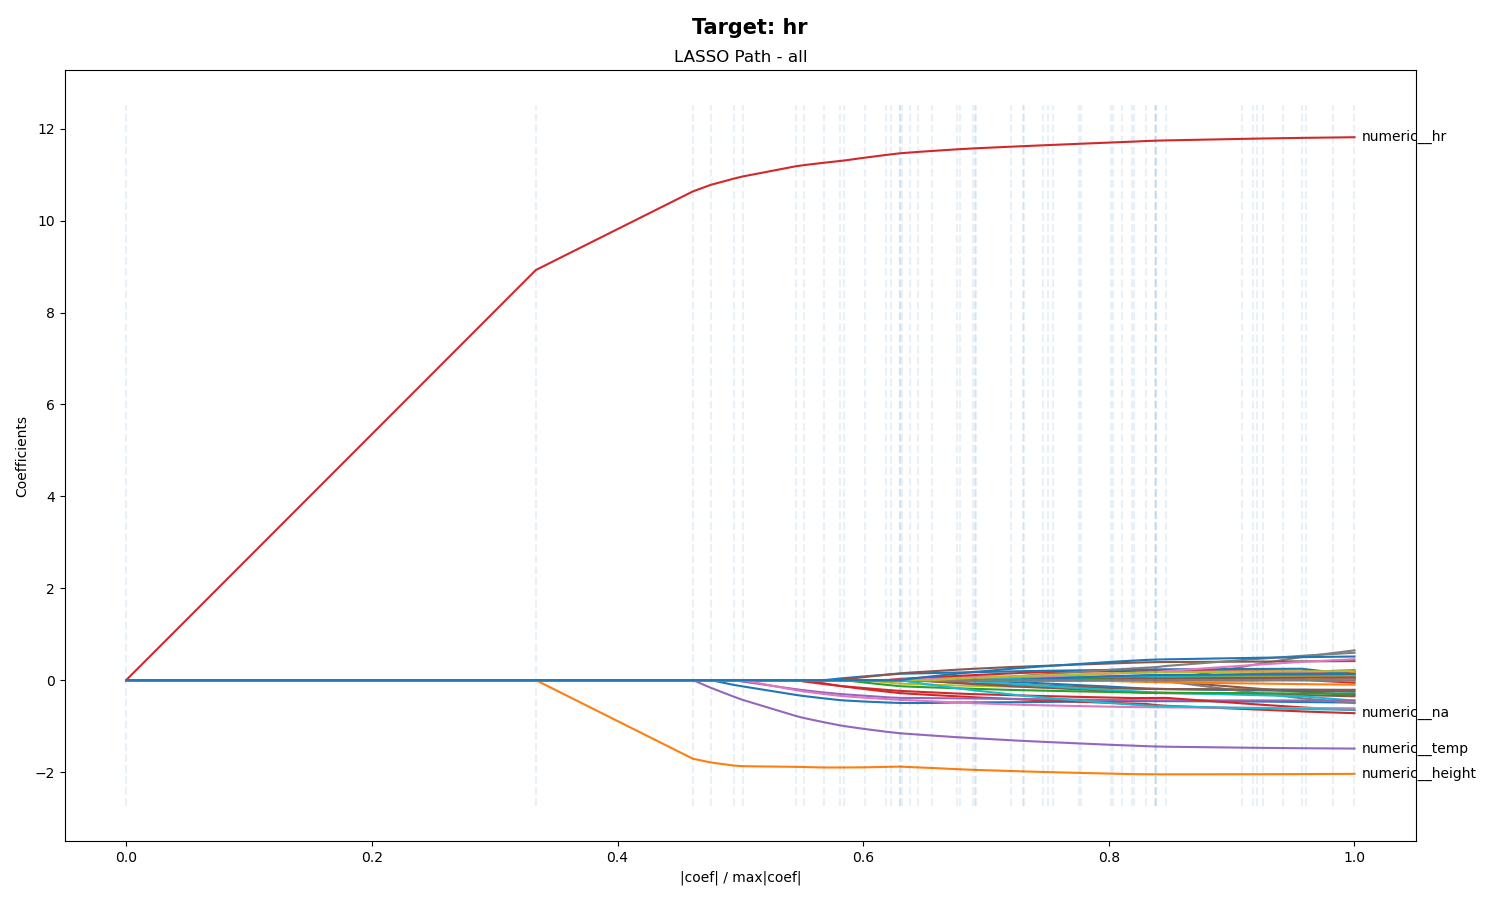
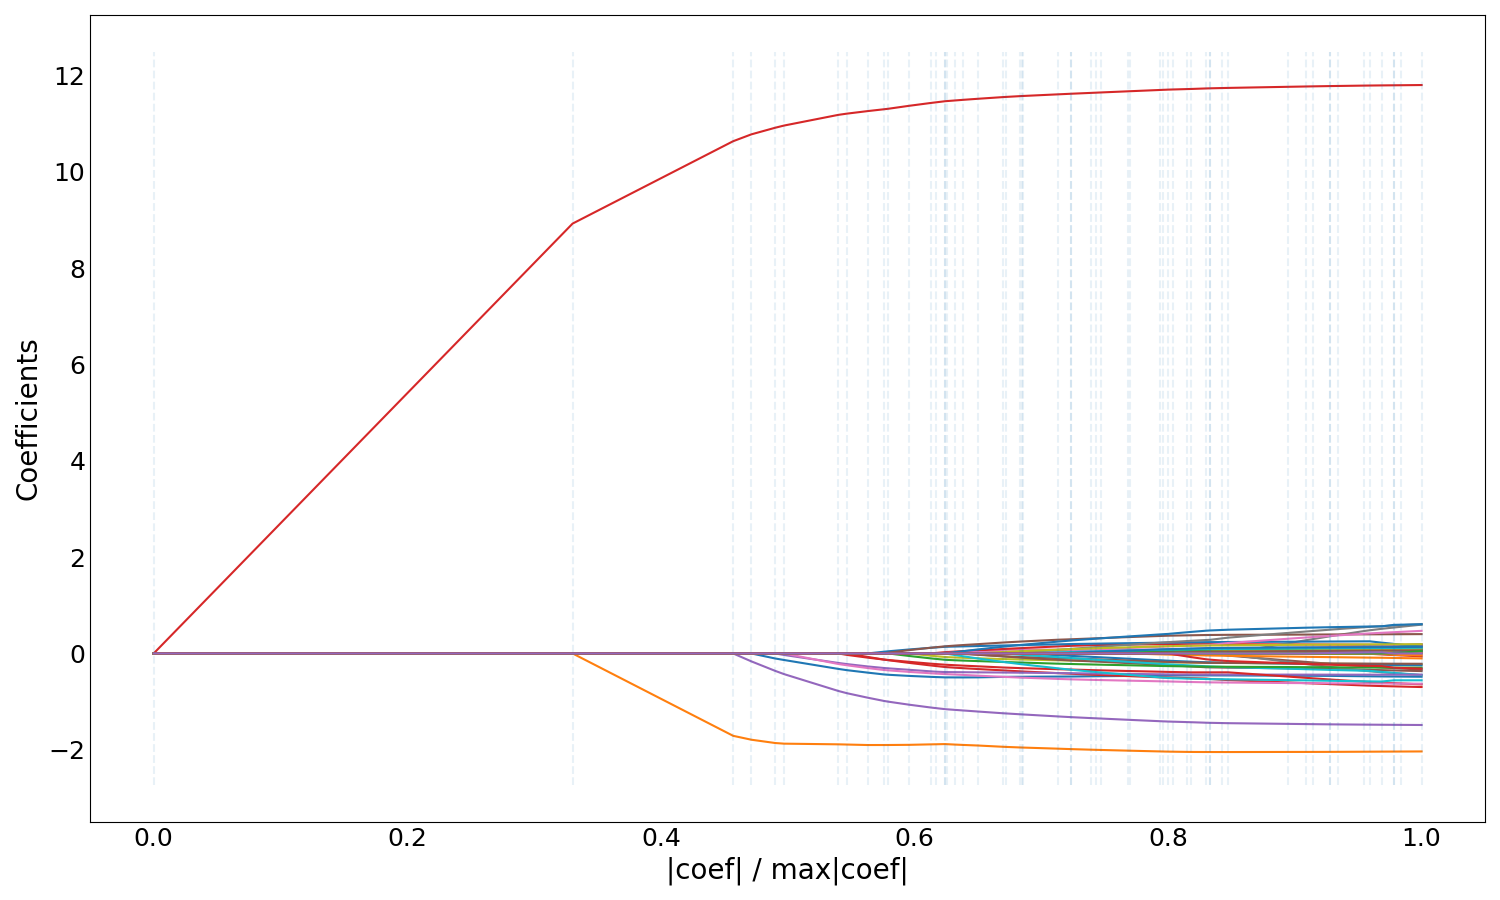
changes

diff --git a/Feature Selection/Lasso_profiles.py b/Feature Selection/Lasso_profiles.py
@@ -22,7 +22,7 @@ from preprocessing import make_feature_preprocessing
 from constants import CATEGORICAL_COLUMNS
 from icu_experiments.load_data import load_data_for_prediction
 
-outcome = 'map'
+outcome = 'hr'
 method = 'lasso'
 
 data = load_data_for_prediction(outcome=outcome)
@@ -36,9 +36,8 @@ Preprocessor = ColumnTransformer(
 fig, axs = plt.subplots(2,2, figsize=(15,9))
 for i, source in enumerate(['eicu', 'mimic', 'miiv', 'hirid', 'all']): 
     if source == 'all': 
-        fig.suptitle(f"Target: {outcome}", fontweight='bold', fontsize=15)
         plt.tight_layout()  # Adjust the layout
-        plt.savefig(f"images/Lasso/{source}_lasso_path_incl_sex")
+        plt.savefig(f"images/lasso profiles/{outcome}/Individual_Lasso_coef_path_{outcome}.png")
         plt.show()
         plt.close()
         fig, ax = plt.subplots(figsize=(15,9))
@@ -62,62 +61,26 @@ for i, source in enumerate(['eicu', 'mimic', 'miiv', 'hirid', 'all']):
     ax.plot(xx, coefs.T)
     ymin, ymax = ax.get_ylim()
     ax.vlines(xx, ymin, ymax, linestyle="dashed", alpha=0.1)
-    ax.set_xlabel("|coef| / max|coef|", fontsize=15)
-    ax.set_ylabel("Coefficients", fontsize=15)
-    ax.set_title(source, fontsize=16)
-    ax.tick_params(axis='y', labelsize=13, size=0) 
-    ax.tick_params(axis='x', labelsize=13, size=0) 
+    if source != 'all':
+        ax.set_title(source, fontsize=16)
+    if source == 'mimic':
+        ax.set_yticks(ticks=[-4, -2, 0, 2, 4, 6, 8, 10, 12, 14])
+    if source == 'all':
+        ax.set_xlabel("|coef| / max|coef|", fontsize=20)
+        ax.set_ylabel("Coefficients", fontsize=20)
+        ax.tick_params(axis='y', labelsize=18, size=0) 
+        ax.tick_params(axis='x', labelsize=18, size=0) 
+    else: 
+        ax.set_xlabel("|coef| / max|coef|", fontsize=15)
+        ax.set_ylabel("Coefficients", fontsize=15)
+        ax.tick_params(axis='y', labelsize=13, size=0) 
+        ax.tick_params(axis='x', labelsize=13, size=0) 
     ax.axis("tight")
-    
-    # Identify the indices of the four largest coefficients
-    if source == 'eicu':    
-        feature_indices = np.argsort(np.abs(coefs[:, -1]))[-4:]
-    elif source == 'hirid':
-        feature_indices = np.argsort(np.abs(coefs[:, -1]))[-4:]
-    else:
-        feature_indices = np.argsort(np.abs(coefs[:, -1]))[-4:]
 
-    print(f'Four most important features on {source}: {[list(_Xtrain.columns)[i] for i in np.argsort(np.abs(coefs[:, -1]))[-6:]]}')
-
-    feature_names = [list(_Xtrain.columns)[i] for i in feature_indices]
+    print(f'Five most important features on {source}: {[list(_Xtrain.columns)[i] for i in np.argsort(np.abs(coefs[:, -1]))[-6:]]}')
+    print()
 
     xmax = max(xx)
-    
-    # Add feature names to plot
-    for i, feature_index in enumerate(feature_indices):
-        y_pos = coefs[feature_index, -1]
-        if source == 'hirid':
-            if feature_names[i] == "categorical__sex_Male":
-                ax.annotate(feature_names[i], xy=(xmax, y_pos), xytext=(5, -5), 
-                        textcoords="offset points", ha='left', va='center')
-            elif feature_names[i] == "categorical__sex_Female":
-                ax.annotate(feature_names[i], xy=(xmax, y_pos), xytext=(5, +5), 
-                        textcoords="offset points", ha='left', va='center')
-            else:
-                ax.annotate(feature_names[i], xy=(xmax, y_pos), xytext=(5, 0), 
-                        textcoords="offset points", ha='left', va='center')
-        elif source == 'all':
-            if feature_names[i] == "categorical__sex_Male":
-                ax.annotate(feature_names[i], xy=(xmax, y_pos), xytext=(5, +3), 
-                        textcoords="offset points", ha='left', va='center')
-            elif feature_names[i] == "categorical__sex_Female":
-                ax.annotate(feature_names[i], xy=(xmax, y_pos), xytext=(5, -3), 
-                        textcoords="offset points", ha='left', va='center')
-            else:
-                ax.annotate(feature_names[i], xy=(xmax, y_pos), xytext=(5, 0), 
-                        textcoords="offset points", ha='left', va='center')
-        else:
-            if feature_names[i] == "categorical__sex_Male":
-                ax.annotate(feature_names[i], xy=(xmax, y_pos), xytext=(5, 5), 
-                        textcoords="offset points", ha='left', va='center')
-            elif feature_names[i] == "categorical__sex_Female":
-                ax.annotate(feature_names[i], xy=(xmax, y_pos), xytext=(5, -5), 
-                        textcoords="offset points", ha='left', va='center')
-            else:
-                ax.annotate(feature_names[i], xy=(xmax, y_pos), xytext=(5, 0), 
-                        textcoords="offset points", ha='left', va='center')
 
-fig.suptitle(f"Target: {outcome}", fontweight='bold', fontsize=15)
 plt.tight_layout()  # Adjust the layout
-plt.savefig("images/Lasso/data_sources_lasso_path_incl_sex.png")
-plt.show()
+plt.savefig(f"images/lasso profiles/{outcome}/Pooled_Lasso_coef_path_{outcome}.png")

diff --git a/Feature Selection/DSL_profiles.py b/Feature Selection/DSL_profiles.py
@@ -105,13 +105,14 @@ feature_indices = np.argsort(np.abs(coefs_shared[:, -1]))[-4:]
 feature_names = [list(X_train_augmented.columns)[i] for i in feature_indices]
 xmax = max(xx)
 print('common effects: ', feature_names)
+print()
 ax.plot(xx, coefs_shared.T)
 ymin, ymax = ax.get_ylim()
 ax.vlines(xx, ymin, ymax, linestyle="dashed", alpha=0.1)
-ax.set_xlabel("|coef| / max|coef|", fontsize=15)
-ax.set_ylabel("Coefficients", fontsize=15)
-ax.tick_params(axis='y', labelsize=13, size=0) 
-ax.tick_params(axis='x', labelsize=13, size=0)  
+ax.set_xlabel("|coef| / max|coef|", fontsize=20)
+ax.set_ylabel("Coefficients", fontsize=20)
+ax.tick_params(axis='y', labelsize=18, size=0) 
+ax.tick_params(axis='x', labelsize=18, size=0)  
 ax.axis("tight")
 plt.tight_layout()  # Adjust the layout
 plt.savefig(f'images/lasso profiles/{outcome}/{outcome}_common_effects_DSL_preprocessed_individ.png')
@@ -138,7 +139,6 @@ for i, source in enumerate(['eicu', 'mimic', 'miiv', 'hirid']):
     ax.tick_params(axis='x', labelsize=13, size=0)  
     ax.axis("tight")
     ax.set_title(source, fontsize=16)
-fig.suptitle(f"Target: {outcome}", fontweight='bold', fontsize=15)
 plt.tight_layout()  # Adjust the layout
 plt.savefig(f'images/lasso profiles/{outcome}/{outcome}_individual_groups_DSL_preprocessed_individ.png')
 plt.show()
